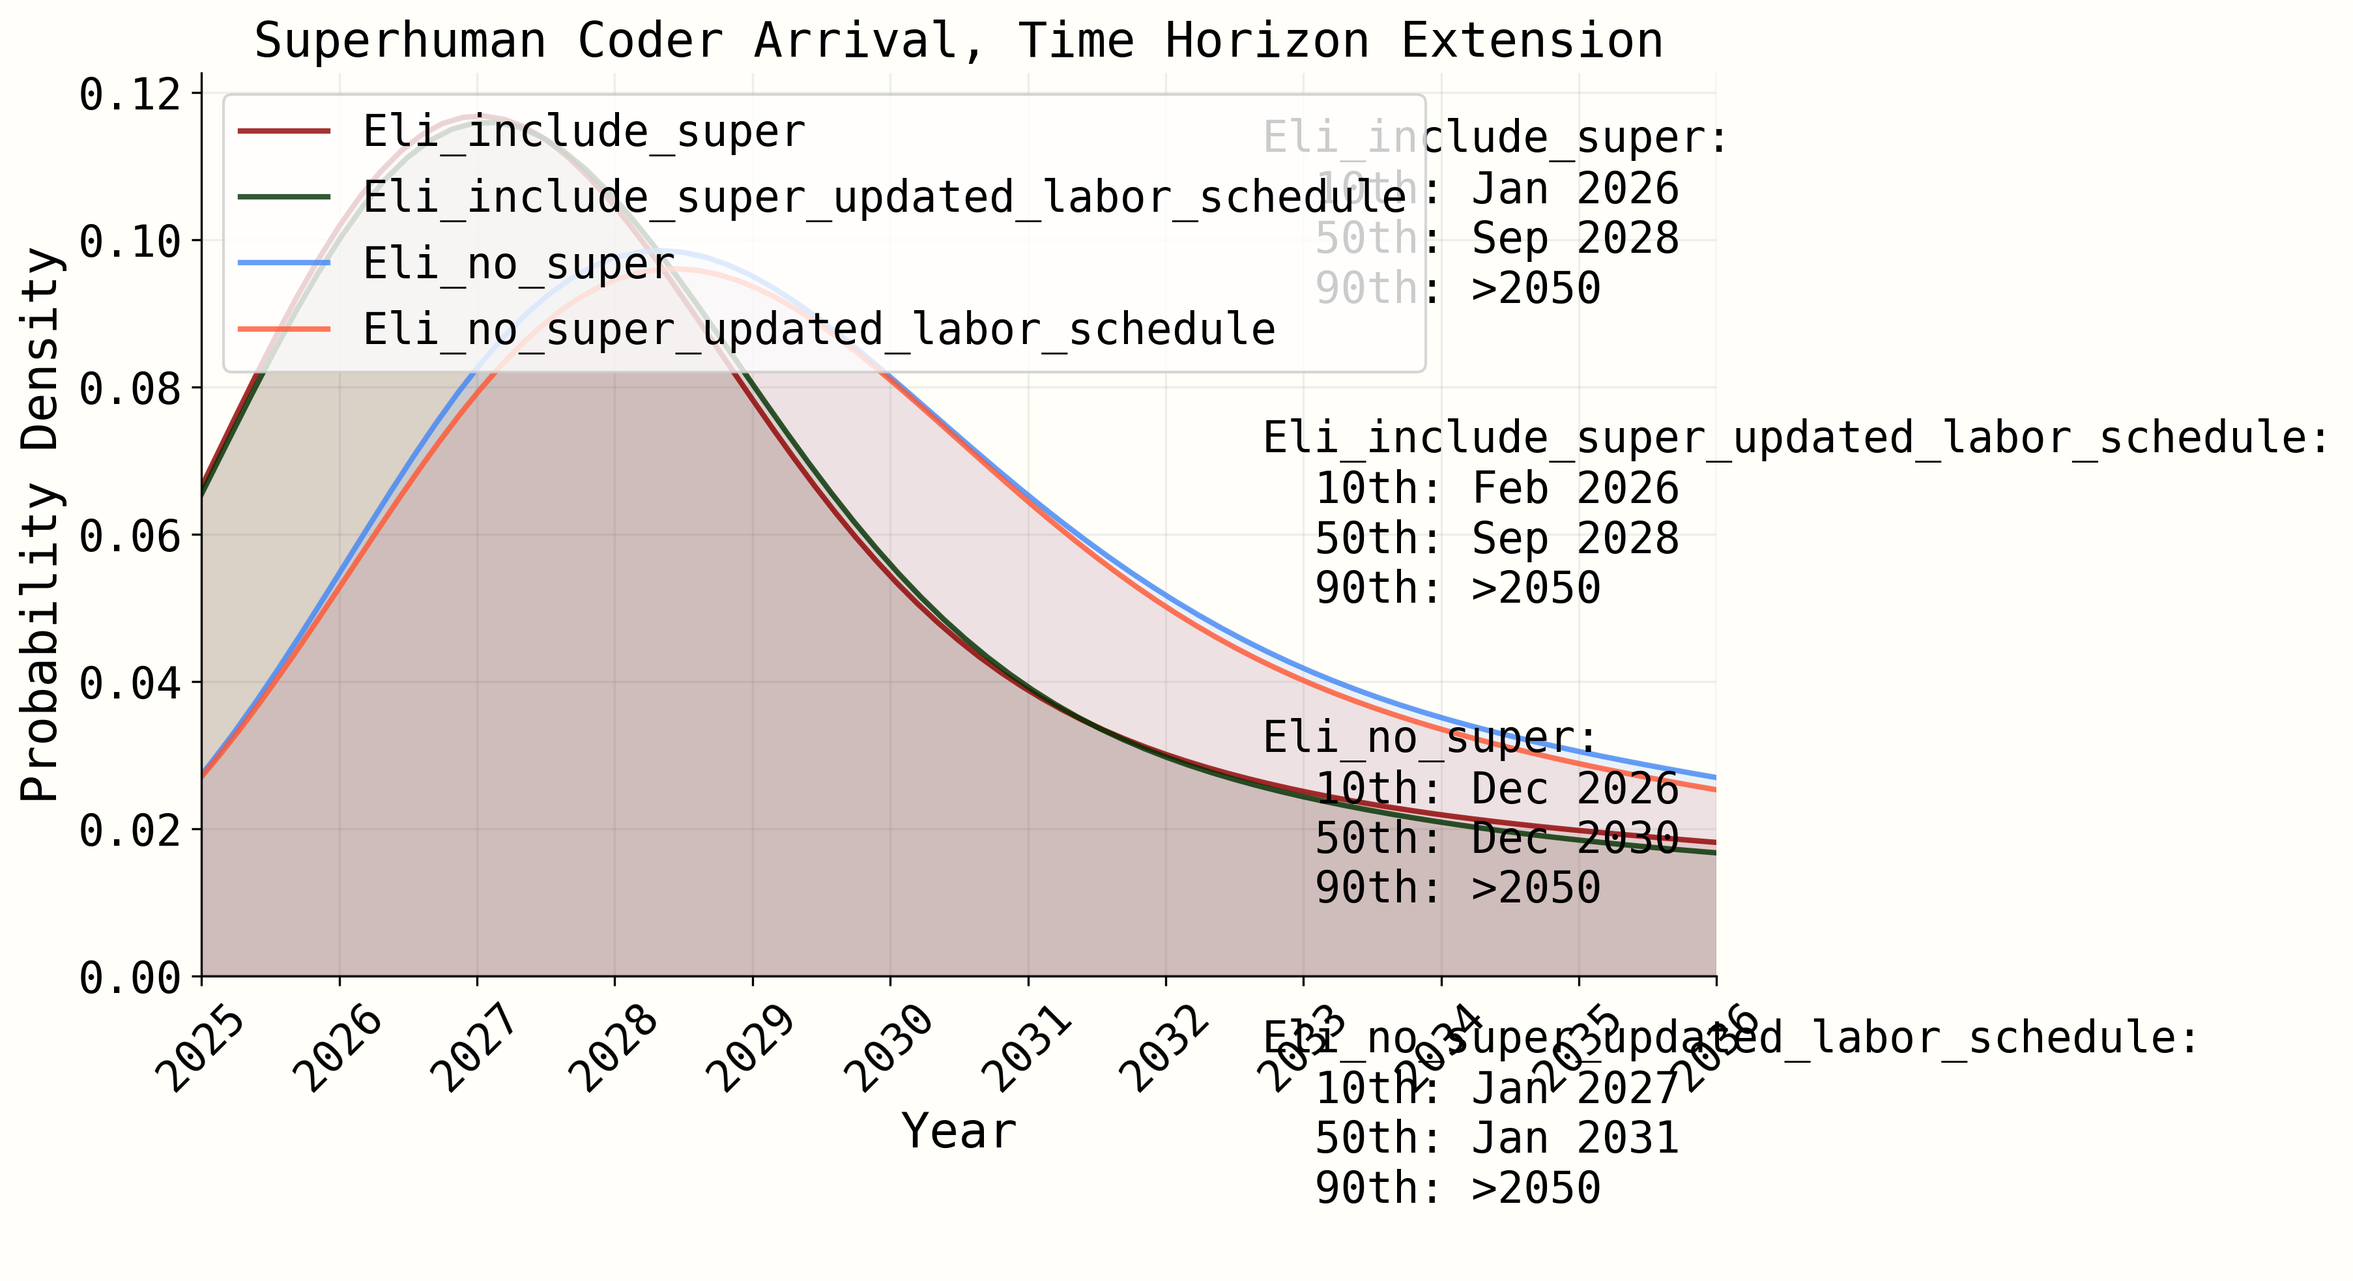
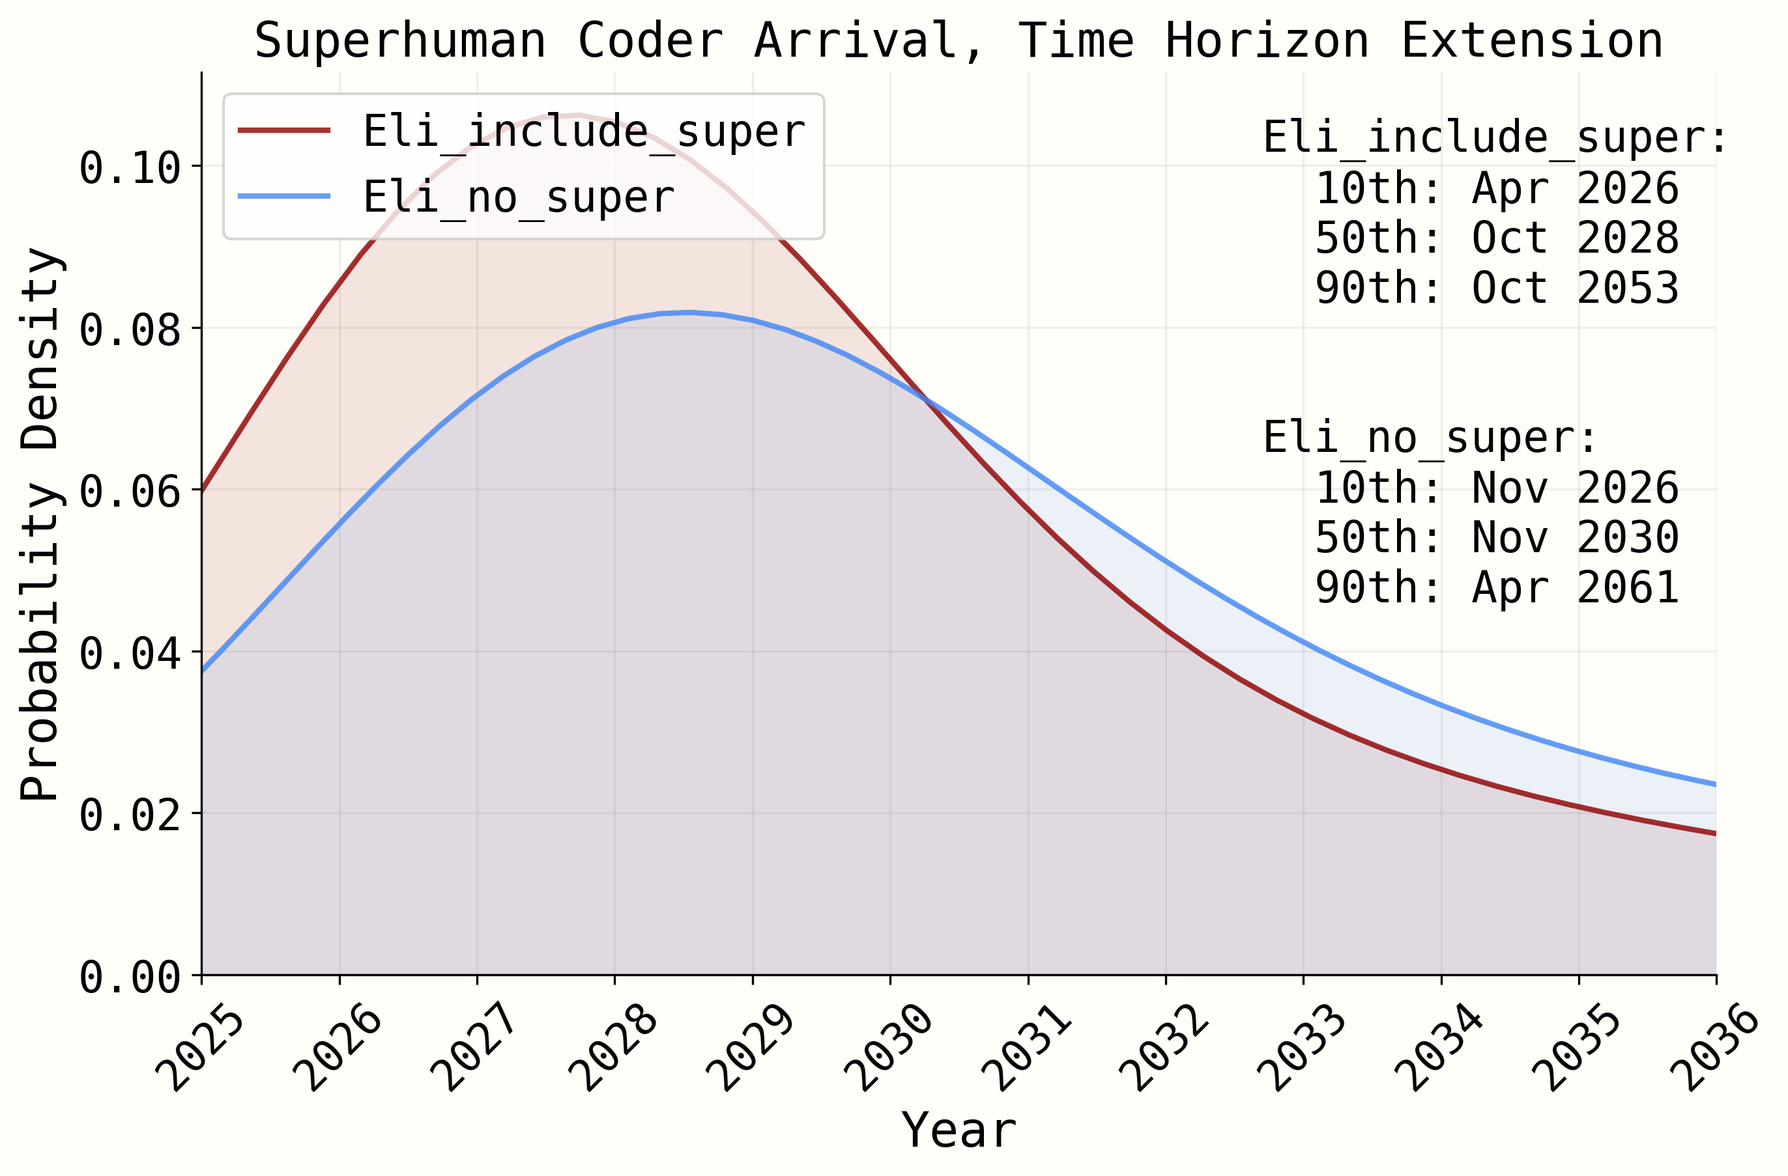
remove superexponential correlation due to unintended consequences re: increasing right tail

diff --git a/timelines/forecasting_timelines.py b/timelines/forecasting_timelines.py
@@ -55,7 +55,7 @@ def weighted_geometric_mean(values, weights):
 def get_distribution_samples(config: dict, n_sims: int, correlation: float = 0.7) -> dict:
     """Generate correlated samples from all input distributions."""
     # First generate correlated standard normal variables
-    n_vars = 3 + len(config["algorithmic_slowdowns"]) + 1  # Core params (excluding h_sat, h_SC, d, v_algorithmic vars) + A_values + superexponential inverse
+    n_vars = 3 + len(config["algorithmic_slowdowns"])  # Core params (excluding h_sat, h_SC, d, v_algorithmic vars) + A_values
     
     # Create correlation matrix (all pairs have same correlation)
     corr_matrix = np.full((n_vars, n_vars), correlation)
@@ -112,9 +112,9 @@ def get_distribution_samples(config: dict, n_sims: int, correlation: float = 0.7
     dist = get_lognormal_from_80_ci(*config["distributions"]["v_algorithmic_SC_ci"])
     samples["v_software_SC"] = dist.ppf(prog_uniform_samples[:, 1])
 
-    # Sample T_t with correlation
-    dist = get_lognormal_from_80_ci(*config["distributions"]["T_t_ci"])
-    samples["T_t"] = dist.ppf(uniform_samples[:, idx])
+    # Sample horizon_doubling_time with correlation
+    dist = get_lognormal_from_80_ci(*config["distributions"]["horizon_doubling_time_ci"])
+    samples["horizon_doubling_time"] = dist.ppf(uniform_samples[:, idx])
     idx += 1
 
     # Handle t_sat as dates
@@ -133,12 +133,15 @@ def get_distribution_samples(config: dict, n_sims: int, correlation: float = 0.7
     dist = get_lognormal_from_80_ci(*config["distributions"]["d_ci"])
     samples["d"] = dist.ppf(np.random.random(n_sims))  # Already in months
     
-    # Add growth type parameters with correlation for superexponential
-    growth_type = uniform_samples[:, idx]
-    samples["is_superexponential"] = growth_type < config["distributions"]["p_superexponential"]
-    samples["is_subexponential"] = (growth_type >= config["distributions"]["p_superexponential"]) & (growth_type < (config["distributions"]["p_superexponential"] + config["distributions"]["p_subexponential"]))
+    # Sample growth types independently
+    p_super = config["distributions"]["p_superexponential"]
+    p_sub = config["distributions"]["p_subexponential"]
+    
+    # Generate independent uniform samples for growth type
+    growth_type = np.random.uniform(0, 1, n_sims)
+    samples["is_superexponential"] = growth_type < p_super
+    samples["is_subexponential"] = (growth_type >= p_super) & (growth_type < (p_super + p_sub))
     samples["is_exponential"] = ~(samples["is_superexponential"] | samples["is_subexponential"])
-    idx += 1
     
     # Add growth/decay parameters
     samples["se_doubling_decay_fraction"] = config["distributions"]["se_doubling_decay_fraction"]
@@ -193,14 +196,14 @@ def calculate_gaps(samples: dict) -> tuple[np.ndarray, np.ndarray]:
     
     # For regular exponential cases
     exp_mask = samples["is_exponential"]
-    g_h[exp_mask] = n_doublings[exp_mask] * samples["T_t"][exp_mask]
+    g_h[exp_mask] = n_doublings[exp_mask] * samples["horizon_doubling_time"][exp_mask]
     
     # For superexponential cases
     # Each doubling takes (1-decay)^k times as long as the first doubling
     se_mask = samples["is_superexponential"]
     if np.any(se_mask):
         decay = samples["se_doubling_decay_fraction"]
-        first_doubling_time = samples["T_t"][se_mask]
+        first_doubling_time = samples["horizon_doubling_time"][se_mask]
         n = n_doublings[se_mask]
         ratio = 1 - decay
         
@@ -213,7 +216,7 @@ def calculate_gaps(samples: dict) -> tuple[np.ndarray, np.ndarray]:
     sub_mask = samples["is_subexponential"]
     if np.any(sub_mask):
         growth = samples["sub_doubling_growth_fraction"]
-        first_doubling_time = samples["T_t"][sub_mask]
+        first_doubling_time = samples["horizon_doubling_time"][sub_mask]
         n = n_doublings[sub_mask]
         ratio = 1 + growth
         
@@ -221,15 +224,11 @@ def calculate_gaps(samples: dict) -> tuple[np.ndarray, np.ndarray]:
         # where T is first doubling time, r is (1+growth), n is number of doublings
         g_h[sub_mask] = first_doubling_time * (ratio**n - 1) / (ratio - 1)
     
-    # import pdb; pdb.set_trace()
-
     # Calculate total algorithmic gap including all slowdowns
     A_values = list(samples["A_values"].values())
     all_gaps = [g_h] + A_values
     sum_gaps = np.sum(all_gaps, axis=0)
     g_SC = sum_gaps
-
-    # import pdb; pdb.set_trace()
     
     return g_h, g_SC
 
@@ -265,7 +264,7 @@ def run_single_scenario(samples: dict, params: dict, forecaster_config: dict, si
     research_stock = simulation_config["initial_research_stock"]
     labor_power = simulation_config["labor_power"]
     
-    for i in tqdm(range(len(samples["T_t"])), desc="Running simulations", leave=False):
+    for i in tqdm(range(len(samples["horizon_doubling_time"])), desc="Running simulations", leave=False):
         # Initialize simulation at current time
         t = params["t_0"] + samples["t_sat"][i]/12  # Convert months to years
         g_t = 0
@@ -275,7 +274,7 @@ def run_single_scenario(samples: dict, params: dict, forecaster_config: dict, si
         current_research_stock = research_stock
         
         # Run timesteps
-        max_time = 2050.0  # Maximum time to simulate to
+        max_time = simulation_config["max_time"]  # Get max_time from simulation config
         for _ in range(params["n_steps"]):
             # Calculate progress fraction
             progress_fraction = g_t / g_SC[i]
@@ -388,8 +387,9 @@ def create_headline_plot(all_forecaster_results: dict[str, list[float]], bins: n
         # Get color from the forecaster's config
         color = config["forecasters"][base_name]["color"]
         
-        # Filter out >2050 points for density plot
-        valid_results = [r for r in results if r <= 2050]
+        # Filter out >max_time points for density plot
+        max_time = config["simulation"]["max_time"]
+        valid_results = [r for r in results if r <= max_time]
         
         # Use KDE for smooth density estimation
         kde = gaussian_kde(valid_results)
@@ -431,16 +431,17 @@ def create_headline_plot(all_forecaster_results: dict[str, list[float]], bins: n
     # Add statistics text for each forecaster
     stats_text = []
     for name, results in all_forecaster_results.items():
-        # Calculate percentiles, marking >2050 as appropriate
+        # Calculate percentiles, marking >max_time as appropriate
+        max_time = config["simulation"]["max_time"]
         p10 = np.percentile(results, 10)
         p50 = np.percentile(results, 50)
         p90 = np.percentile(results, 90)
         
         stats = (
             f"{name}:\n"
-            f"  10th: {format_year_month(p10) if p10 <= 2050 else '>2050'}\n"
-            f"  50th: {format_year_month(p50) if p50 <= 2050 else '>2050'}\n"
-            f"  90th: {format_year_month(p90) if p90 <= 2050 else '>2050'}\n"
+            f"  10th: {format_year_month(p10, max_time) if p10 <= max_time else f'>{int(max_time)}'}\n"
+            f"  50th: {format_year_month(p50, max_time) if p50 <= max_time else f'>{int(max_time)}'}\n"
+            f"  90th: {format_year_month(p90, max_time) if p90 <= max_time else f'>{int(max_time)}'}\n"
         )
         stats_text.append(stats)
     
@@ -448,9 +449,6 @@ def create_headline_plot(all_forecaster_results: dict[str, list[float]], bins: n
             transform=ax.transAxes,
             verticalalignment="top",
             horizontalalignment="left",
-            # bbox=dict(facecolor=bg_rgb, alpha=0.9,
-            #                 edgecolor=plotting_style["colors"]["human"]["dark"],
-            #                 linewidth=0.5),
             fontsize=plotting_style["font"]["sizes"]["legend"])
     text.set_fontproperties(fonts['regular_legend'])
     
@@ -500,8 +498,9 @@ def create_scenario_plots(all_forecaster_scenarios: dict[str, list[list[float]]]
             # Get color from the forecaster's config
             color = config["forecasters"][name.lower()]["color"]
             
-            # Filter out >2050 points for density plot
-            valid_results = [r for r in results if r <= 2050]
+            # Filter out >max_time points for density plot
+            max_time = config["simulation"]["max_time"]
+            valid_results = [r for r in results if r <= max_time]
             
             # Use KDE for smooth density estimation
             kde = gaussian_kde(valid_results)
@@ -534,16 +533,17 @@ def create_scenario_plots(all_forecaster_scenarios: dict[str, list[list[float]]]
         stats_text = []
         for name, all_results in all_forecaster_scenarios.items():
             results = all_results[scenario_idx]
-            # Calculate percentiles, marking >2050 as appropriate
+            # Calculate percentiles, marking >max_time as appropriate
+            max_time = config["simulation"]["max_time"]
             p10 = np.percentile(results, 10)
             p50 = np.percentile(results, 50)
             p90 = np.percentile(results, 90)
             
             stats = (
                 f"{name}:\n"
-                f"  10th: {format_year_month(p10) if p10 <= 2050 else '>2050'}\n"
-                f"  50th: {format_year_month(p50) if p50 <= 2050 else '>2050'}\n"
-                f"  90th: {format_year_month(p90) if p90 <= 2050 else '>2050'}"
+                f"  10th: {format_year_month(p10, max_time) if p10 <= max_time else f'>{int(max_time)}'}\n"
+                f"  50th: {format_year_month(p50, max_time) if p50 <= max_time else f'>{int(max_time)}'}\n"
+                f"  90th: {format_year_month(p90, max_time) if p90 <= max_time else f'>{int(max_time)}'}"
             )
             stats_text.append(stats)
         
@@ -551,9 +551,6 @@ def create_scenario_plots(all_forecaster_scenarios: dict[str, list[list[float]]]
                 transform=ax.transAxes,
                 verticalalignment="top",
                 horizontalalignment="left",
-                # bbox=dict(facecolor=bg_rgb, alpha=0.9,
-                #                 edgecolor=plotting_style["colors"]["human"]["dark"],
-                #                 linewidth=0.5),
                 fontsize=plotting_style["font"]["sizes"]["legend"])
         text.set_fontproperties(fonts['regular_legend'])
         
@@ -602,7 +599,7 @@ def create_distribution_plots(all_forecaster_samples: dict, config: dict, plotti
         "Horizon Length at\nSaturation (h_sat)":
             {"key": "h_sat", "unit": "hours", "convert": lambda x: x * 24 * 30},  # Convert months back to hours for display
         "Horizon Doubling\nTime at start (T)": 
-            {"key": "T_t", "unit": "months"},
+            {"key": "horizon_doubling_time", "unit": "months"},
         "Time to\nSaturation (t_sat)":
             {"key": "t_sat", "unit": "days"},
         "Software Progress Rate at\nSaturation (v_software_sat)":
@@ -664,9 +661,6 @@ def create_distribution_plots(all_forecaster_samples: dict, config: dict, plotti
             transform=ax.transAxes,
             verticalalignment="top",
             horizontalalignment="left",
-            # bbox=dict(facecolor=bg_rgb, alpha=0.9,
-            #         edgecolor=plotting_style["colors"]["human"]["dark"],
-            #         linewidth=0.5),
             fontsize=plotting_style["font"]["sizes"]["legend"])
     text.set_fontproperties(fonts['regular_legend'])
     
@@ -899,10 +893,10 @@ def plot_single_distribution(ax: plt.Axes, data: np.ndarray, color: str, label: 
             linewidth=2, alpha=0.8, zorder=2)
     ax.fill_between(x_range, density, color=color, alpha=0.1)
 
-def format_year_month(year_decimal: float) -> str:
+def format_year_month(year_decimal: float, max_time: float) -> str:
     """Convert decimal year to Month Year format."""
-    if year_decimal >= 2050:
-        return ">2050"
+    if year_decimal >= max_time:
+        return f">{int(max_time)}"
         
     year = int(year_decimal)
     month = int((year_decimal % 1) * 12) + 1

diff --git a/timelines/simple_forecasting_timelines.py b/timelines/simple_forecasting_timelines.py
@@ -31,8 +31,8 @@ def get_distribution_samples(config: dict, n_sims: int, correlation: float = 0.7
     """Generate samples from all input distributions."""
     samples = {}
     
-    # First generate correlated standard normal variables for the three correlated parameters
-    n_vars = 4  # T_t, cost_speed, inverse of p_superexponential, present_prog_multiplier, SC_prog_multiplier
+    # First generate correlated standard normal variables for the two correlated parameters
+    n_vars = 2  # horizon_doubling_time, cost_speed
     
     # Create correlation matrix (all pairs have same correlation)
     corr_matrix = np.full((n_vars, n_vars), correlation)
@@ -67,10 +67,10 @@ def get_distribution_samples(config: dict, n_sims: int, correlation: float = 0.7
     
     # Sample doubling time (in months) with correlation
     dist = get_lognormal_from_80_ci(
-        config["distributions"]["T_t_ci"][0],
-        config["distributions"]["T_t_ci"][1]
+        config["distributions"]["horizon_doubling_time_ci"][0],
+        config["distributions"]["horizon_doubling_time_ci"][1]
     )
-    samples["T_t"] = dist.ppf(uniform_samples[:, 0])
+    samples["horizon_doubling_time"] = dist.ppf(uniform_samples[:, 0])
     
     # Sample cost and speed adjustment (in months) with correlation
     dist = get_lognormal_from_80_ci(
@@ -106,12 +106,12 @@ def get_distribution_samples(config: dict, n_sims: int, correlation: float = 0.7
     )
     samples["SC_prog_multiplier"] = dist.ppf(prog_uniform_samples[:, 1])
     
-    # Sample growth types with correlation for p_superexponential
+    # Sample growth types independently
     p_super = config["distributions"]["p_superexponential"]
     p_sub = config["distributions"]["p_subexponential"]
     
-    # Use the correlated uniform sample to determine p_superexponential
-    growth_type = uniform_samples[:, 2]
+    # Generate independent uniform samples for growth type
+    growth_type = np.random.uniform(0, 1, n_sims)
     samples["is_superexponential"] = growth_type < p_super
     samples["is_subexponential"] = (growth_type >= p_super) & (growth_type < (p_super + p_sub))
     samples["is_exponential"] = ~(samples["is_superexponential"] | samples["is_subexponential"])
@@ -150,13 +150,13 @@ def calculate_base_time(samples: dict, current_horizon: float) -> np.ndarray:
     
     # For regular exponential cases
     exp_mask = samples["is_exponential"]
-    total_time[exp_mask] = n_doublings[exp_mask] * samples["T_t"][exp_mask]
+    total_time[exp_mask] = n_doublings[exp_mask] * samples["horizon_doubling_time"][exp_mask]
     
     # For superexponential cases
     se_mask = samples["is_superexponential"]
     if np.any(se_mask):
         decay = samples["se_doubling_decay_fraction"]
-        first_doubling_time = samples["T_t"][se_mask]
+        first_doubling_time = samples["horizon_doubling_time"][se_mask]
         n = n_doublings[se_mask]
         ratio = 1 - decay
         total_time[se_mask] = first_doubling_time * (1 - ratio**n) / (1 - ratio)
@@ -165,7 +165,7 @@ def calculate_base_time(samples: dict, current_horizon: float) -> np.ndarray:
     sub_mask = samples["is_subexponential"]
     if np.any(sub_mask):
         growth = samples["sub_doubling_growth_fraction"]
-        first_doubling_time = samples["T_t"][sub_mask]
+        first_doubling_time = samples["horizon_doubling_time"][sub_mask]
         n = n_doublings[sub_mask]
         ratio = 1 + growth
         total_time[sub_mask] = first_doubling_time * (ratio**n - 1) / (ratio - 1)
@@ -256,7 +256,7 @@ def calculate_sc_arrival_year(samples: dict, current_horizon: float, dt: float, 
     # Convert dt from days to months
     dt_in_months = dt / 30.5
     
-    max_time = 2050
+    max_time = simulation_config["max_time"]
     
     # Run simulation for each sample with progress bar
     for i in tqdm(range(n_sims), desc="Running simulations", leave=False):
@@ -338,10 +338,10 @@ def calculate_sc_arrival_year(samples: dict, current_horizon: float, dt: float, 
     
     return ending_times
 
-def format_year_month(year_decimal: float) -> str:
+def format_year_month(year_decimal: float, max_time: float = 2050.0) -> str:
     """Convert decimal year to Month Year format."""
-    if year_decimal >= 2050:
-        return ">2050"
+    if year_decimal >= max_time:
+        return f">{int(max_time)}"
         
     year = int(year_decimal)
     month = int((year_decimal % 1) * 12) + 1
@@ -367,6 +367,9 @@ def plot_results(all_forecaster_results: dict, config: dict) -> plt.Figure:
     x_min = current_year
     x_max = current_year + 11
     
+    # Get max_time from config
+    max_time = config["simulation"]["max_time"]
+    
     # Plot each forecaster's results
     stats_text = []
     for name, results in all_forecaster_results.items():
@@ -375,8 +378,8 @@ def plot_results(all_forecaster_results: dict, config: dict) -> plt.Figure:
         # Get color from config
         color = config["forecasters"][base_name]["color"]
         
-        # Filter out >2050 points for density plot only
-        valid_results = [r for r in results if r <= 2050]
+        # Filter out >max_time points for density plot only
+        valid_results = [r for r in results if r <= max_time]
         
         # Use KDE for smooth density estimation
         kde = gaussian_kde(valid_results)
@@ -388,12 +391,12 @@ def plot_results(all_forecaster_results: dict, config: dict) -> plt.Figure:
                 linewidth=2, alpha=0.8, zorder=2)
         ax.fill_between(x_range, density, color=color, alpha=0.1)
         
-        # Calculate statistics using all results to properly show >2050
+        # Calculate statistics using all results to properly show >max_time
         stats = (
             f"{name}:\n"
-            f"  10th: {format_year_month(np.percentile(results, 10))}\n"
-            f"  50th: {format_year_month(np.percentile(results, 50))}\n"
-            f"  90th: {format_year_month(np.percentile(results, 90))}\n"
+            f"  10th: {format_year_month(np.percentile(results, 10), max_time)}\n"
+            f"  50th: {format_year_month(np.percentile(results, 50), max_time)}\n"
+            f"  90th: {format_year_month(np.percentile(results, 90), max_time)}\n"
         )
         stats_text.append(stats)
 
@@ -469,6 +472,10 @@ def run_simple_sc_simulation(config_path: str = "simple_params.yaml") -> tuple[p
                 forecaster_config,
                 config["simulation"]
             )
+            
+            # Print percentage of subexponential simulations
+            subexponential_percentage = np.mean(samples["is_subexponential"]) * 100
+            print(f"\n{name} subexponential percentage: {subexponential_percentage:.1f}%")
             
             pbar.update(1)
     
